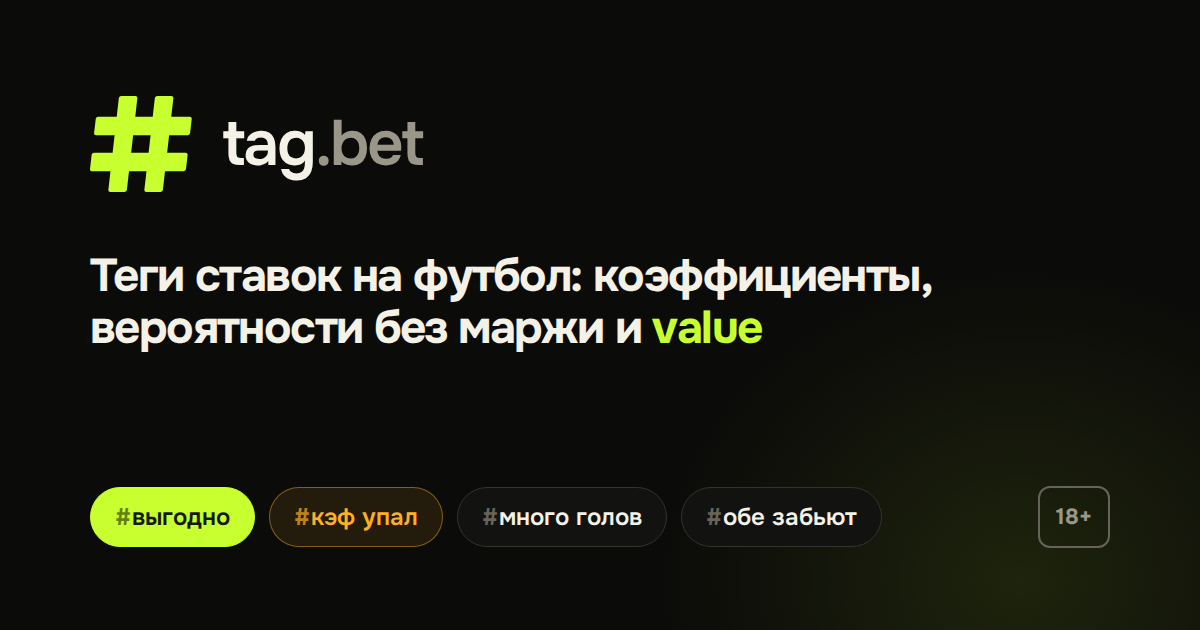
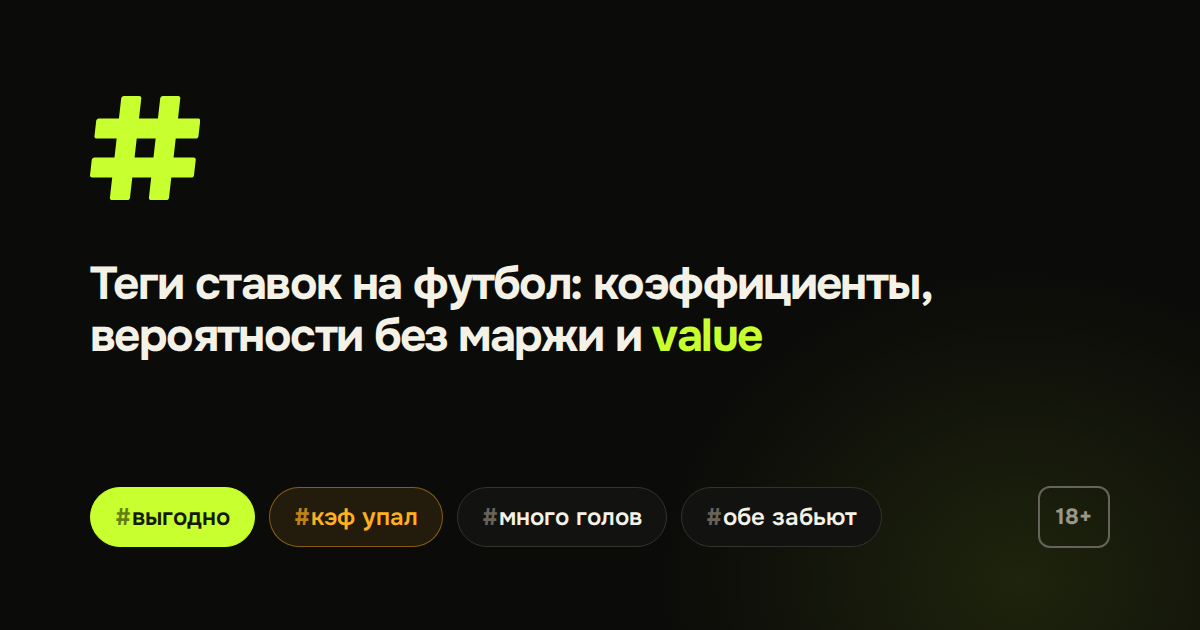
Логотип — только решётка, без надписи «tag.bet»
Как договорились с владельцем: в шапке и подвале — одна наклонная
решётка (LogoMark, 32 px), компонент Brand с надписью убран. Файлы
public/brand/logo.svg и logo-black.svg — тоже только знак (лаймовый и
чёрный), превью ссылок og.png — решётка без надписи. Название сайта
остаётся в заголовке вкладки и подписи ссылки «на главную».

Claude-Session: https://claude.ai/code/session_01LqCxNKeCAKNwhNzoBsjYvY

Changed region(s): [[0.0617, 0.3921, 0.8017, 0.573], [0.0617, 0.1508, 0.37, 0.3317]]

diff --git a/components/Logo.tsx b/components/Logo.tsx
@@ -1,26 +1,13 @@
 import { MARK_ASPECT, MARK_D, MARK_VIEWBOX } from './logo-paths'
 
-/** Знак tag.bet: наклонная лаймовая решётка. size — высота в px. */
+/**
+ * Логотип tag.bet — одна наклонная лаймовая решётка, без надписи (в шапке, подвале, на иконках).
+ * size — высота в px. Название сайта — в подписи ссылки и заголовке вкладки.
+ */
 export function LogoMark({ size = 28, className = '' }: { size?: number; className?: string }) {
   return (
     <svg viewBox={MARK_VIEWBOX} height={size} width={Math.round(size * MARK_ASPECT)} className={`shrink-0 ${className}`} aria-hidden>
       <path className="fill-acid" d={MARK_D} />
     </svg>
-  )
-}
-
-/**
- * Логотип шапки и подвала: главная — лаймовая решётка, «tag.bet» рядом шрифтом сайта
- * и тише («.bet» приглушён). Название нужно рядом, пока решётку не узнают сами по себе.
- * Тот же логотип в кривых — public/brand/logo.svg.
- */
-export function Brand({ size = 30, className = '' }: { size?: number; className?: string }) {
-  return (
-    <span className={`inline-flex items-center ${className}`} style={{ gap: Math.round(size * 0.32) }} role="img" aria-label="tag.bet">
-      <LogoMark size={size} />
-      <span className="font-semibold leading-none tracking-[-0.035em] text-fg" style={{ fontSize: Math.round(size * 0.66) }}>
-        tag<span className="text-dim">.bet</span>
-      </span>
-    </span>
   )
 }

diff --git a/components/Header.tsx b/components/Header.tsx
@@ -3,7 +3,7 @@ import { primaryPartner } from '@/config/bookmakers'
 import { goHref } from '@/lib/affiliate'
 import { CtaLink } from './CtaLink'
 import { HeaderShell } from './HeaderShell'
-import { Brand } from './Logo'
+import { LogoMark } from './Logo'
 import { NavCapsule } from './NavCapsule'
 
 /** Логотип без подложки, меню-капсула строго по центру, справа 18+ и «Бонус». */
@@ -13,7 +13,7 @@ export function Header() {
     <HeaderShell>
       <div className="relative mx-auto flex h-16 max-w-6xl items-center gap-4 px-5">
         <Link href="/" aria-label="tag.bet — на главную" className="shrink-0 text-fg transition-opacity hover:opacity-85">
-          <Brand size={30} />
+          <LogoMark size={32} />
         </Link>
         {/* капсула — строго по центру страницы, независимо от ширины краёв */}
         <div className="absolute left-1/2 top-1/2 hidden -translate-x-1/2 -translate-y-1/2 md:block">

diff --git a/components/Footer.tsx b/components/Footer.tsx
@@ -1,13 +1,13 @@
 import Link from 'next/link'
 import { SITE } from '@/config/site'
-import { Brand } from './Logo'
+import { LogoMark } from './Logo'
 
 export function Footer() {
   return (
     <footer className="mt-20 border-t border-edge">
       <div className="mx-auto grid max-w-6xl gap-8 px-4 py-10 sm:grid-cols-[1.4fr_1fr_1fr]">
         <div>
-          <Brand size={30} />
+          <LogoMark size={32} />
           <p className="mt-3 max-w-sm text-sm leading-relaxed text-dim">
             Теги ставок на футбол: сравнение коэффициентов, вероятности без маржи, форма команд и прогнозы на основе данных.
           </p>

diff --git a/AGENTS.md b/AGENTS.md
@@ -21,7 +21,7 @@ This block is written and re-added by `next dev` — verify at `node_modules/nex
 - «Матч в слайдах» (сторис): данные — `lib/story.ts` → `/api/story/[id]`, просмотр и графики — `components/story/`. Ссылки на матч в списках — через `StoryLink` (обычная ссылка для SEO, клик открывает сторис).
 - Кружки историй на главной: группы — `lib/story-groups.ts` (порядок по `lib/rank.ts`), ряд — `components/story/StoryCircles.tsx`, очередь передаётся в просмотрщик через `openStory({ queue })`. Просмотренные матчи — в `localStorage` (`components/story/seen.ts`), только для колец. На главной — «В игре», «Топ дня» и до 5 главных тегов (`mainCircles`), подписи в одну строку.
 - «Сводка дня» (виджеты первого экрана главной): данные — `lib/day-summary.ts` (`buildDaySummary`, `summaryCards` — какие 4 маленьких виджета показать), вид — `components/DaySummary.tsx` (одна схема плитки: подпись → крупная цифра → матч → одна строка пояснения, без осей, легенд и текста мельче 13px; «Матч дня» — вывод → причина → разбор: команды, фраза словами, нейтральная полоса шансов в процентах с подписями «команда · Ничья · команда» (светлая — фаворит), одна причина, «Разбор за минуту» и «Выгодно». Все плитки тёмные: цвет только на главной цифре и значке — лайм у выгодной ставки, янтарь у падения кэфа, красный у live; у каждой цифры точная подпись — «к честной цене», «с открытия линии», «шанс победы», «шанс 3+ голов» + порог отбора; у будущих дней — дата, а не «через 66 ч»). Выбор дня — `DateTabs` + календарь `DatePicker` (±1 год / +2 месяца). Первый экран главной (шапка, кружки, сводка) должен влезать в ноутбук 1440×760 без прокрутки — проверяйте замером. На прошедших днях сводки нет.
-- Шапка (логотип — наклонная лаймовая решётка `LogoMark` + «tag.bet» шрифтом сайта, `Brand` в `components/Logo.tsx`; знак — `components/logo-paths.ts` из `public/brand/mark.svg`; без подложки): `components/Header.tsx` + `HeaderShell.tsx` (стекло после прокрутки) + `NavCapsule.tsx` (меню-капсула; раздел по адресу — `activeNav`).
+- Шапка (логотип — только наклонная лаймовая решётка `LogoMark`, без надписи «tag.bet» — так решил владелец; знак — `components/logo-paths.ts` из `public/brand/mark.svg`; без подложки): `components/Header.tsx` + `HeaderShell.tsx` (стекло после прокрутки) + `NavCapsule.tsx` (меню-капсула; раздел по адресу — `activeNav`).
 - Цвета по смыслу: лайм — «цена выше честной» (сила перевеса — яркостью лайма, `edgeTone` в `components/Flaps.tsx`), янтарь — прогруз, красный — live. Светофор не используем.
 - Для тех, кто не разбирается в цифрах: вывод словами — `lib/verdict.ts` (`buildVerdict`: «Скорее выиграет «X»», голы, падение кэфа, выгодная ставка; `split100` — проценты трёх исходов в сумме ровно 100, `outcomeText`/`outcomeShort` — исход словами вместо «П1»/«ТБ 2.5»). Только факты из данных: про прогруз — «кэф снизился», не «массово ставят». Пороги слов — как у тега #фаворит (60%) и слайда «Кто фаворит» (47%). Без обещаний: только «скорее», «вероятно». В строках и «Матче дня» — только выгодная ставка (обычный прогноз модели бывает «против» вывода). Теги подписаны простыми словами (`label`: `#выгодно`, `#кэф упал`…), slug и адреса прежние; цифра тега — в `TagHit.p`, а не в тексте.
 - Обложки кружков историй: одна тёмная основа `CIRCLE_BG` + белая иконка тега — `lib/story-art.ts` + `components/story/ArtIcon.tsx` (цвет — только в кольце: лайм не смотрели, красный LIVE, серый просмотрено; цвета тегов `ART` — только для фона просмотрщика); своя картинка — файл `public/stories/<ключ>.*` (`lib/story-covers.ts`, только сервер). Цифр в кружках нет.

diff --git a/README.md b/README.md
@@ -89,16 +89,15 @@ value, прогрузы, теги) и до пяти главных тегов д
 
 ## Бренд
 
-Логотип — наклонная лаймовая решётка: четыре бруска со скруглёнными углами, наклон 6,5°
-(`public/brand/mark.svg`), рядом — `tag.bet` шрифтом сайта Onest, «.bet» приглушён. В шапке и подвале
-логотип собран живым текстом (`Brand` в `components/Logo.tsx`), на иконках — одна решётка на тёмном
-фоне. Файлы — в `public/brand/`:
+Логотип — одна наклонная лаймовая решётка, без надписи: четыре бруска со скруглёнными углами, наклон
+6,5°. Он в шапке и подвале (`LogoMark` в `components/Logo.tsx`), на иконках и в превью ссылок; название
+сайта — в заголовке вкладки и подписи ссылки «на главную». Файлы — в `public/brand/`:
 
 | Файл | Где использовать |
 | --- | --- |
-| `logo.svg` | основной логотип для тёмного фона |
+| `logo.svg` | логотип (решётка) для тёмного фона |
 | `logo-black.svg` | одноцветный для светлого фона (документы, печать) |
-| `mark.svg` | только знак |
+| `mark.svg` | тот же знак — исходник для `components/logo-paths.ts` |
 | `avatar.png` | аватарка Telegram-канала и соцсетей (640×640) |
 
 Иконка вкладки — `app/icon.svg`, иконка для iPhone — `app/apple-icon.png`, превью ссылок — `public/og.png`.
